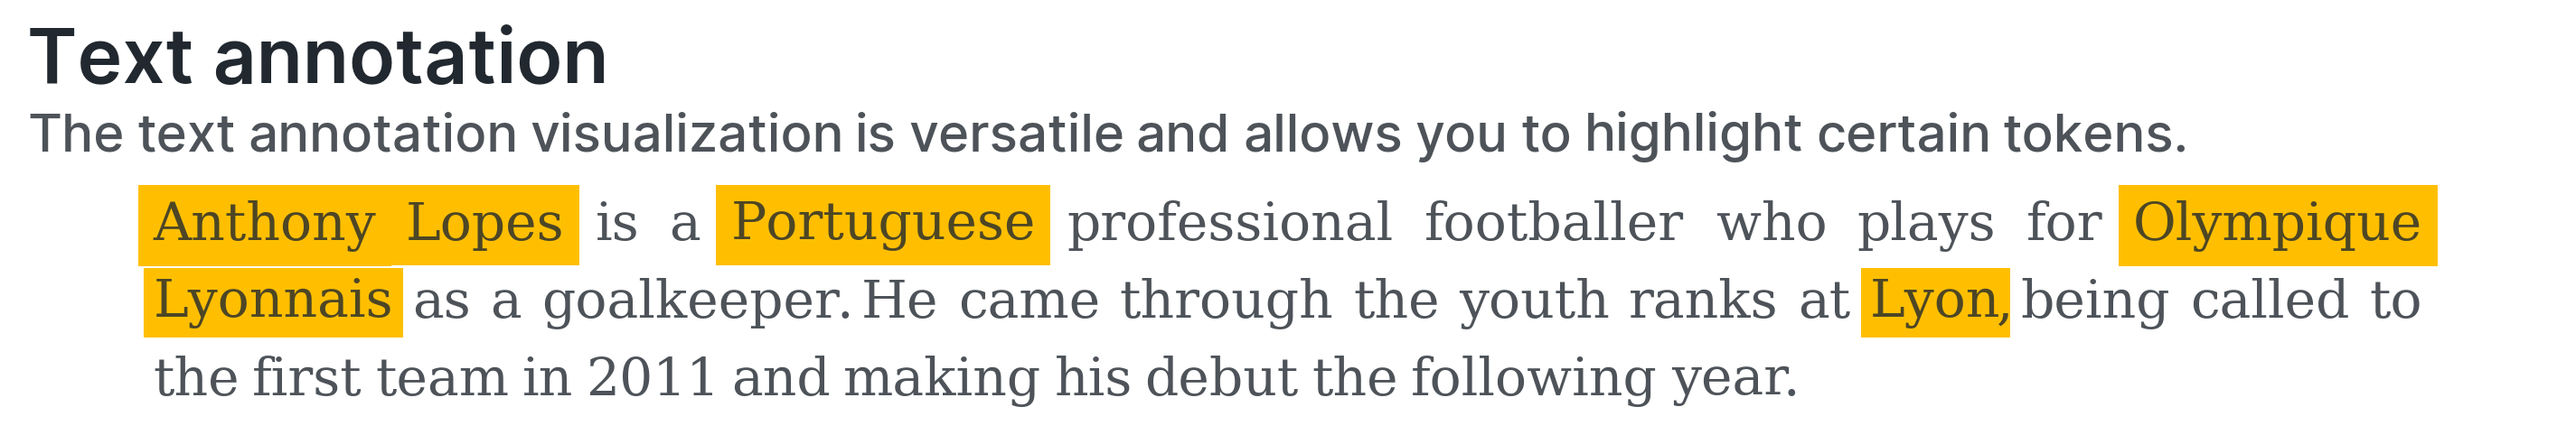
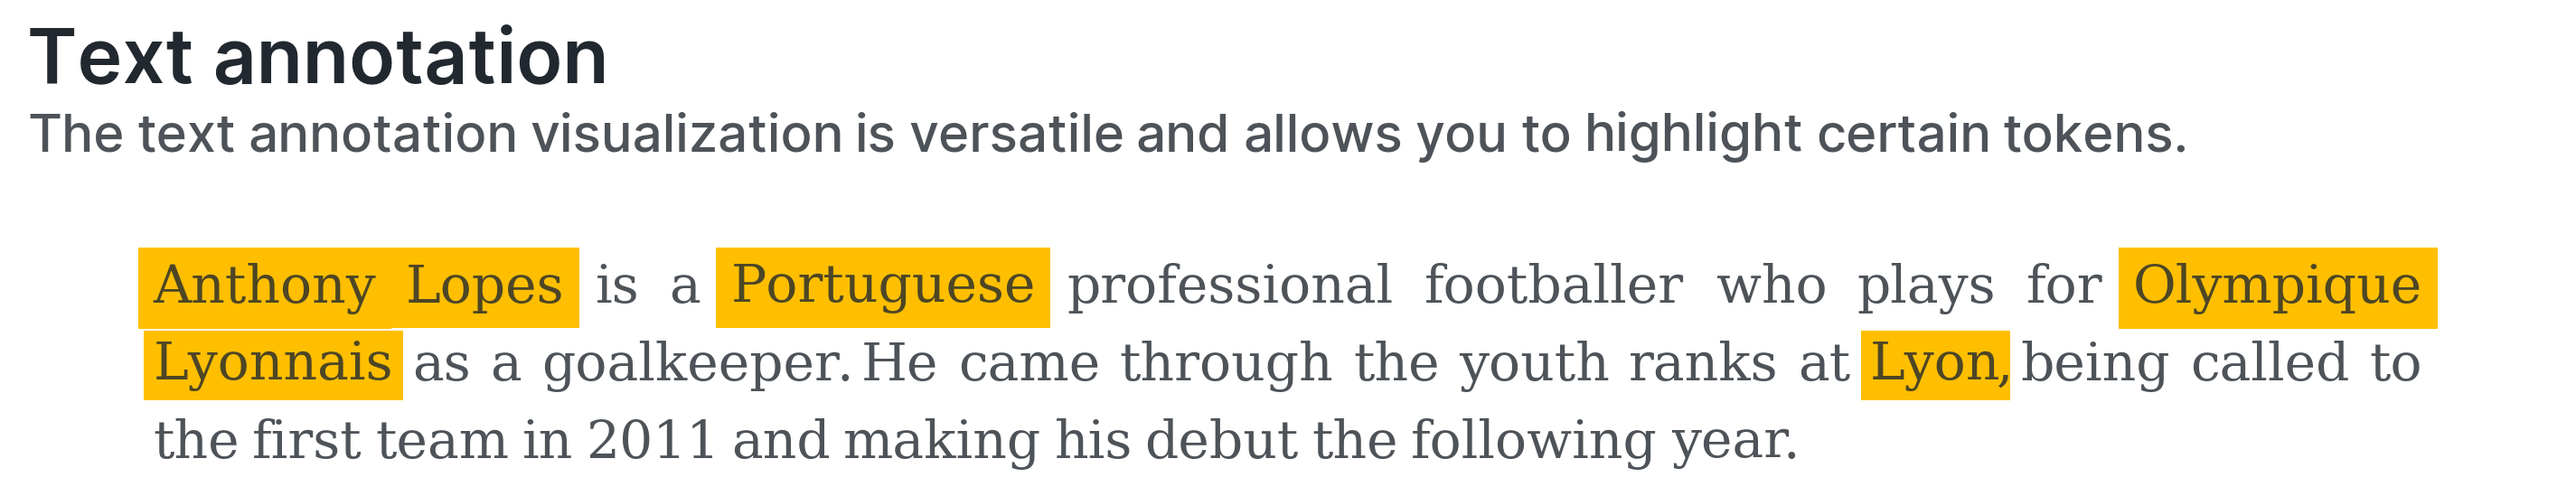
Fix the general styling not being provided to the annotation

Changed region(s): [[0.0312, 0.3963, 0.9681, 0.9451], [0.0, 0.2134, 0.8432, 0.3659], [0.0, 0.0305, 0.2498, 0.2134]]

diff --git a/multiplex/text/text.py b/multiplex/text/text.py
@@ -143,6 +143,7 @@ class TextAnnotation():
 			raise ValueError("The left and right padding should not overlap, received %d left padding and %d right padding" % (lpad, rpad))
 
 		annotation = Annotation(self.drawable)
-		tokens = annotation.draw(data, (lpad, axis.get_xlim()[1] - rpad), tpad, wordspacing=wordspacing,
-						lineheight=lineheight, align=align)
+		tokens = annotation.draw(data, (lpad, axis.get_xlim()[1] - rpad), tpad,
+								 wordspacing=wordspacing, lineheight=lineheight,
+								 align=align, *args, **kwargs)
 		return tokens
